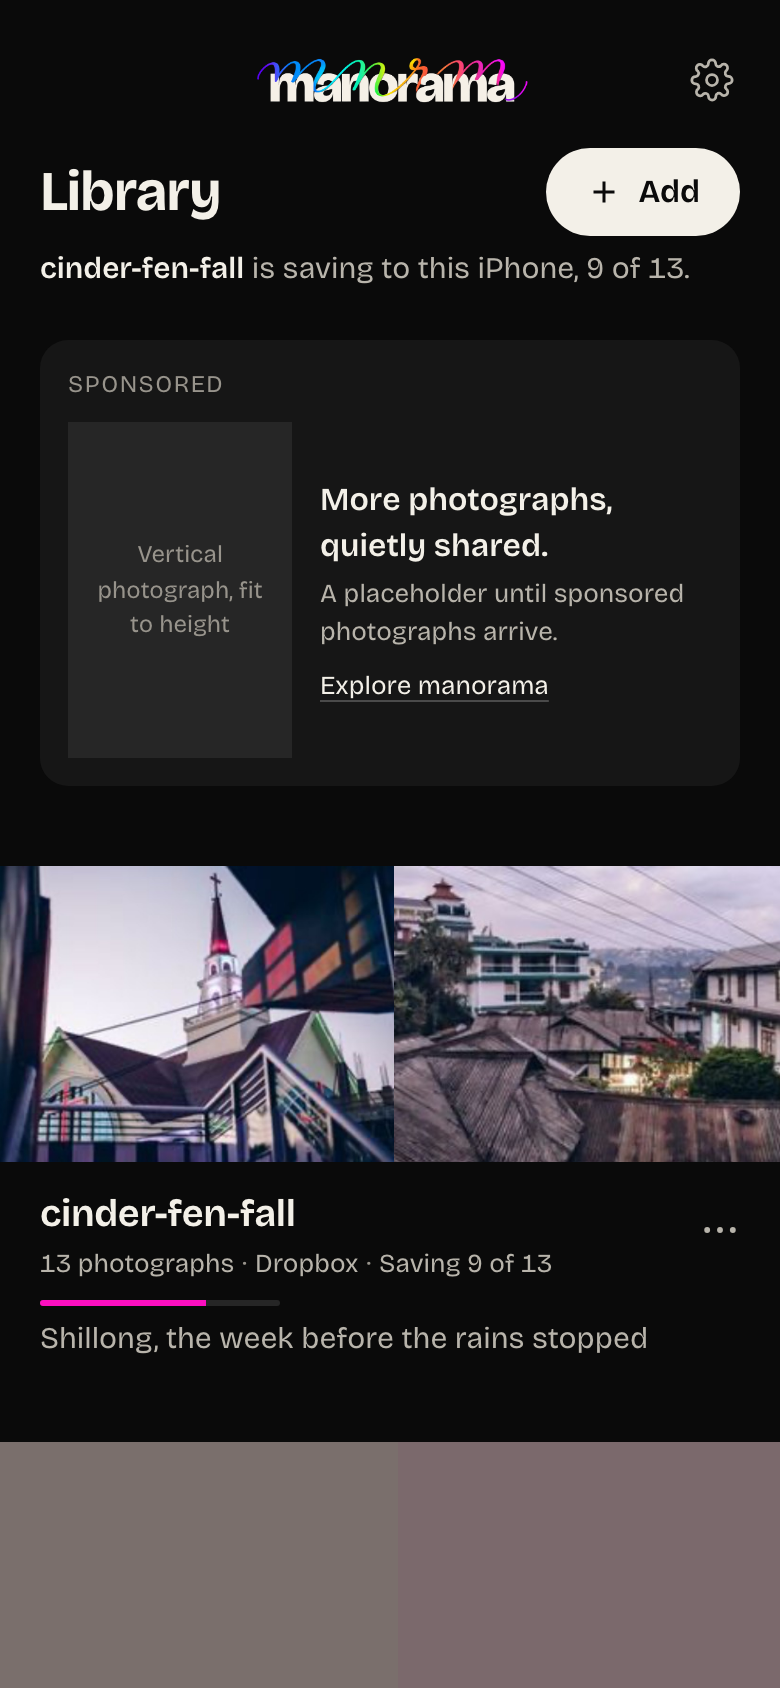
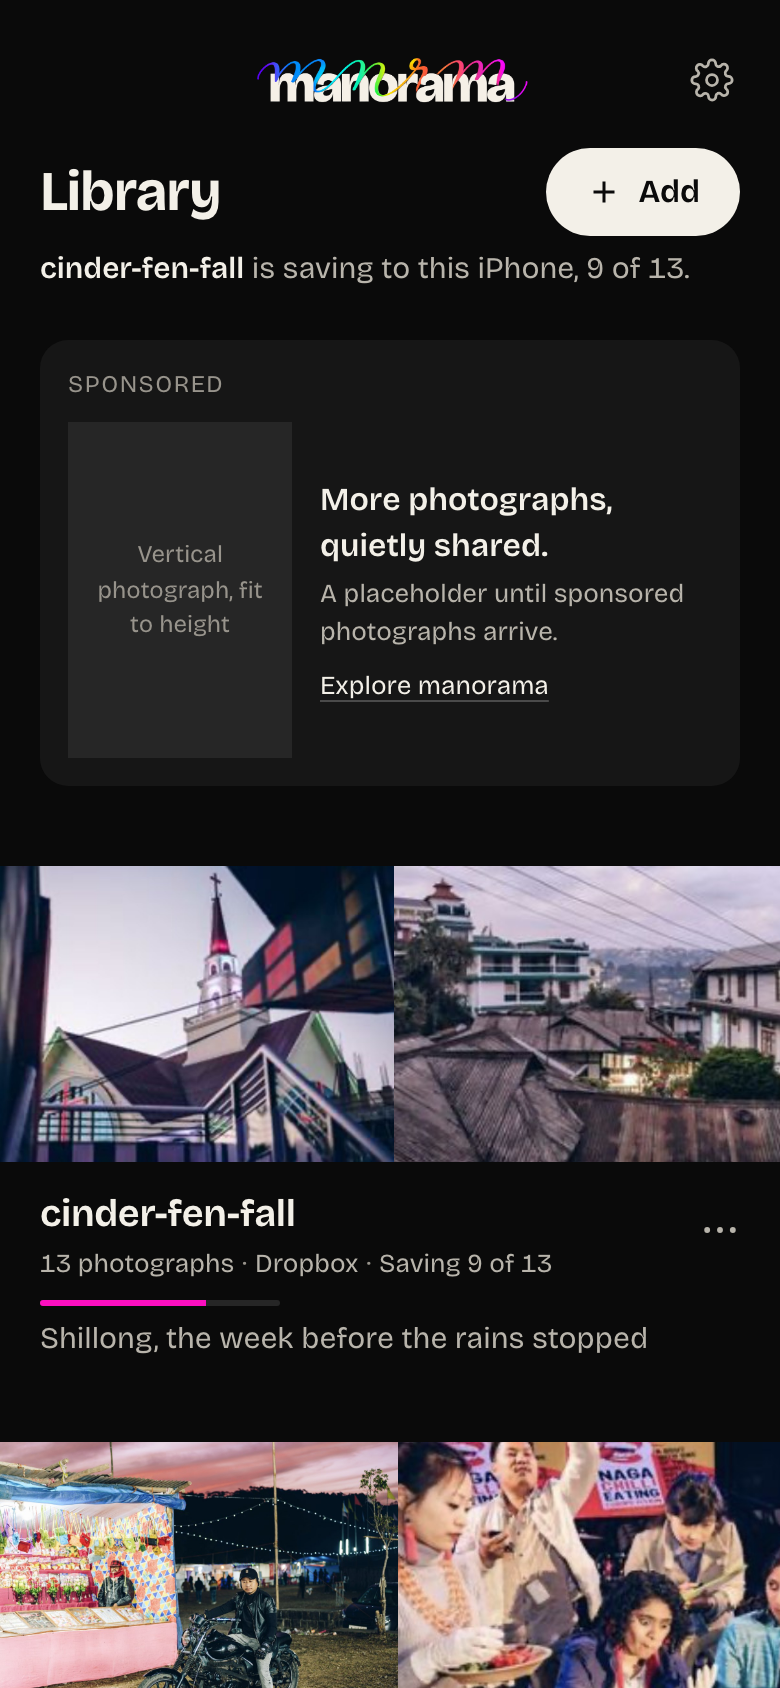
fix(prototype): make captures deterministic and keep hidden controls untabbable
The capture raced the app's fake latency: a vault-progress interval ticked
mid-run and thumbnail delays were random, so the same run could ship
different PNGs. Freeze Math.random and the interval at init, then wait
for in-margin thumbnails to actually complete rather than a flat 300ms.
The toast could also overflow the phone on long copy, and the clipped
screen index stayed in the tab order at phone sizes.

Changed region(s): [[0.0, 0.8318, 1.0, 1.0]]

diff --git a/docs/redesign-prototype/app.css b/docs/redesign-prototype/app.css
@@ -255,7 +255,7 @@ img { display: block; }
 .toast {
   position: absolute; left: 50%; bottom: 40px; z-index: 90; transform: translate(-50%, 20px); opacity: 0;
   background: var(--primary); color: var(--on-primary); padding: 11px 18px; border-radius: var(--pill);
-  font-size: 15px; font-weight: 600; transition: opacity .2s, transform .3s var(--ease); white-space: nowrap; pointer-events: none;
+  font-size: 15px; font-weight: 600; transition: opacity .2s, transform .3s var(--ease); max-width: calc(100% - 32px); pointer-events: none;
 }
 .toast.on { opacity: 1; transform: translate(-50%, 0); }
 
@@ -483,7 +483,7 @@ img { display: block; }
   body { overflow: hidden; }
   .proposal { display: block; padding: 0; }
   .side.notes { display: none; }
-  .side.left { position: absolute; width: 1px; height: 1px; overflow: hidden; clip: rect(0 0 0 0); }
+  .side.left { display: none; }
   .phone-col { position: fixed; inset: 0; }
   .device { width: 100%; height: 100%; border-radius: 0; padding: 0; transform: none !important; }
   .app { border-radius: 0; }
